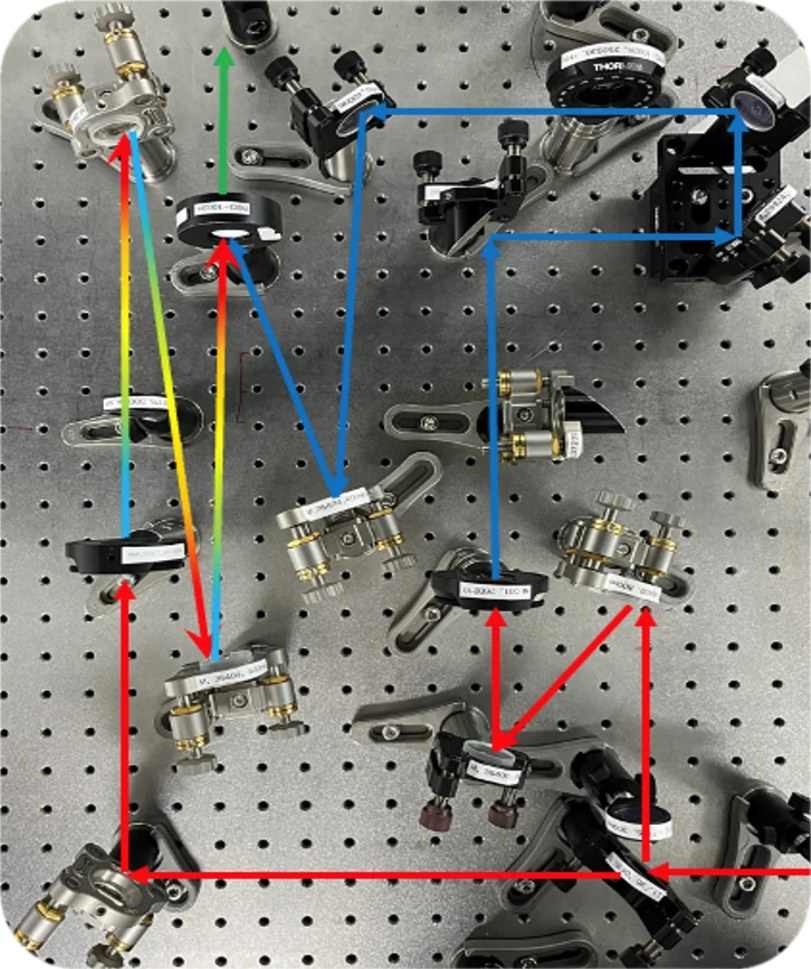
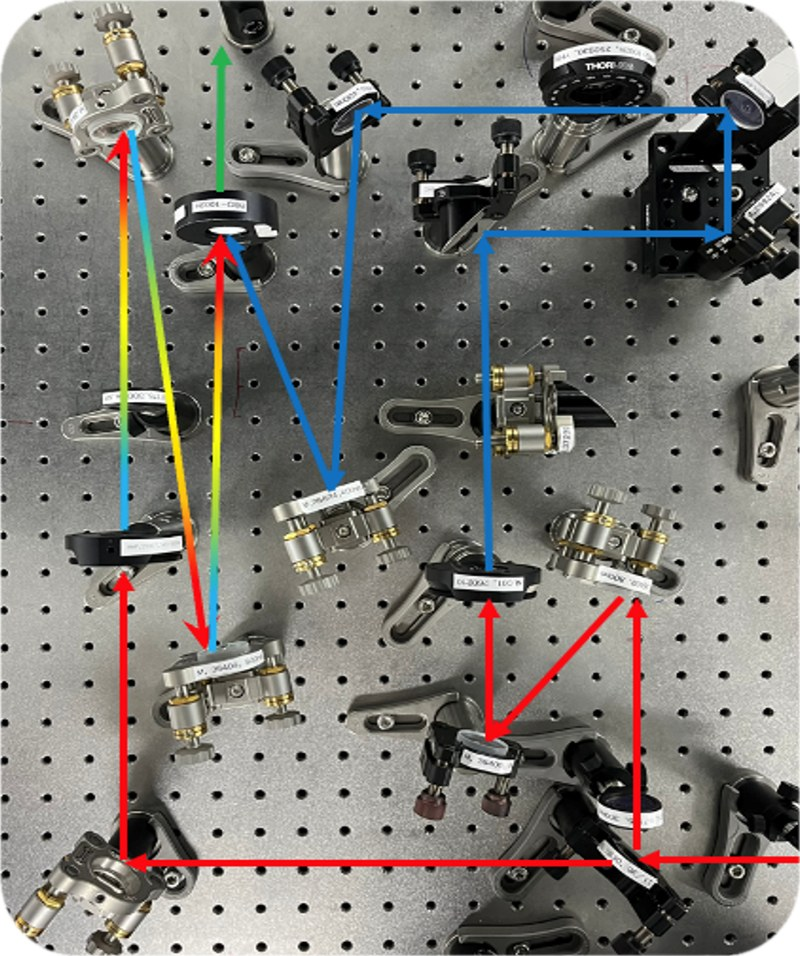
Update NOPA figure to the revised version
Re-crop the setup photo from the new figure, resize both images for the
web (photo 800px, full figure 2400px), match the photo's corner radius,
and version the image URLs so cached copies refresh.

diff --git a/index.html b/index.html
@@ -115,7 +115,7 @@
 <!-- Clicking the photo opens the full figure (schematic + annotated photo). -->
 <tr>
   <td style="padding:8px 16px;width:28%;vertical-align:top">
-    <a href="images/nopa_setup.jpg"><img class="pub-figure" src="images/nopa_setup_photo.jpg" alt="Home-built NOPA on the optical table with the beam paths drawn over it" style="width:100%;border-radius:20px"></a>
+    <a href="images/nopa_setup.jpg?v=2"><img class="pub-figure" src="images/nopa_setup_photo.jpg?v=2" alt="Home-built NOPA on the optical table with the beam paths drawn over it" style="width:100%;border-radius:15px"></a>
   </td>
   <td style="padding:8px;width:72%;vertical-align:top">
     <div class="papertitle pub-title">NOPA (Non-collinear Optical Parametric Amplifier)</div>
